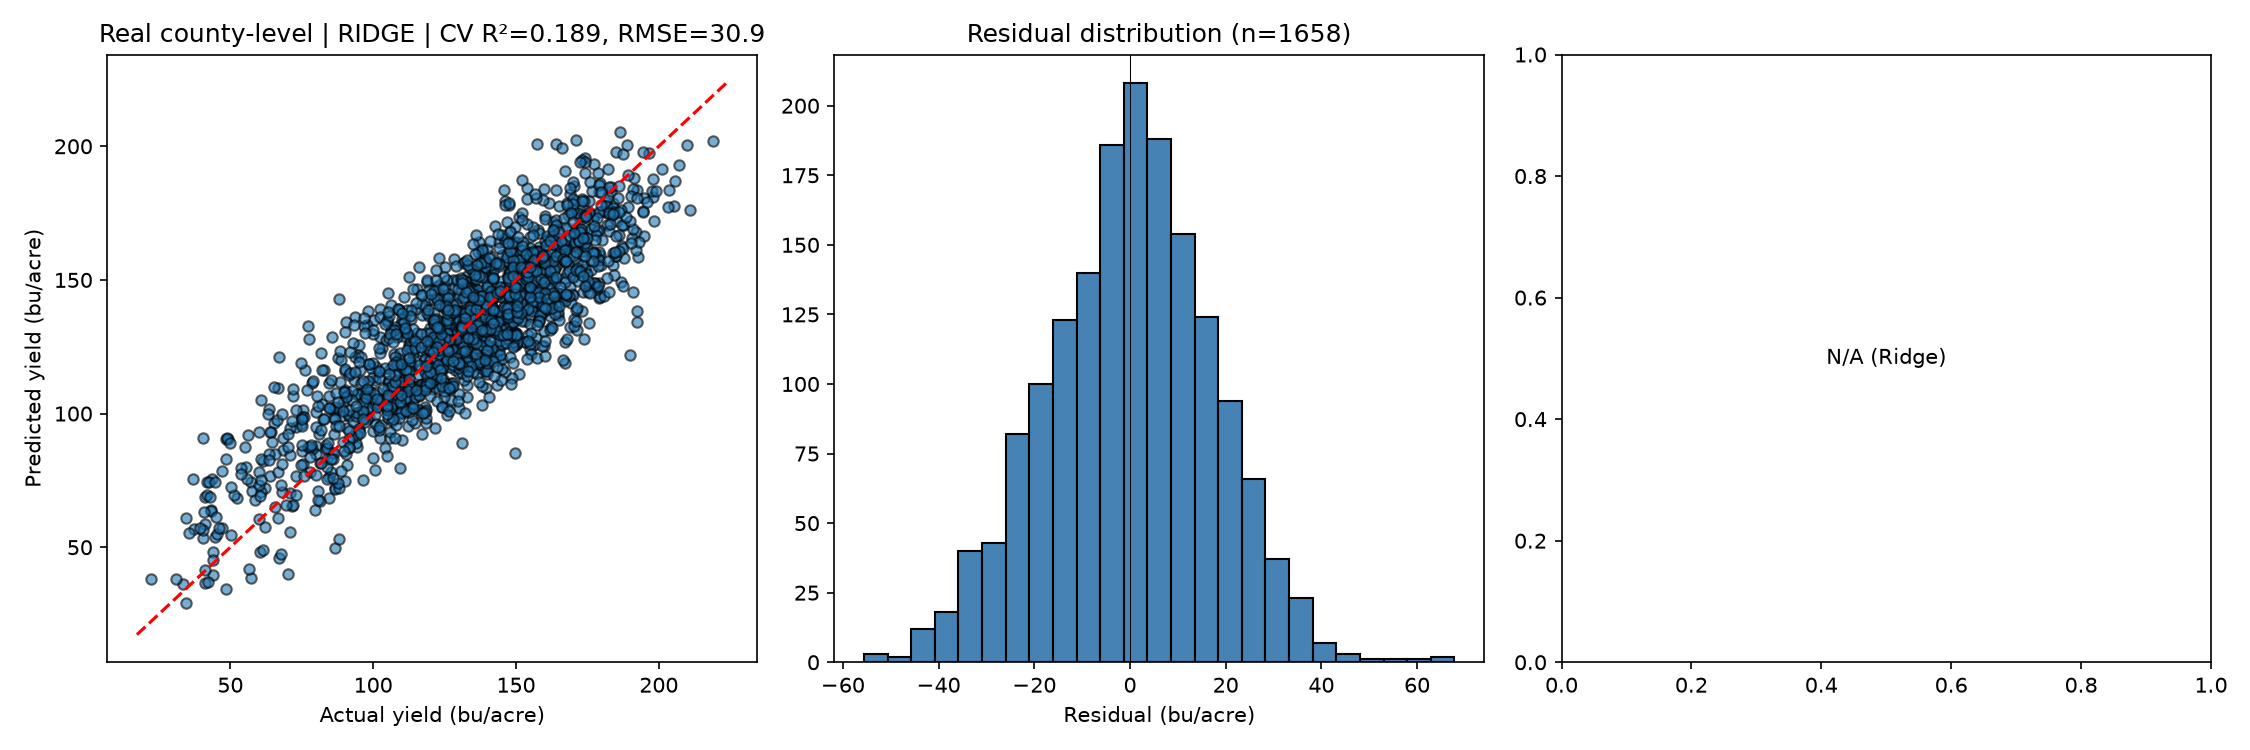
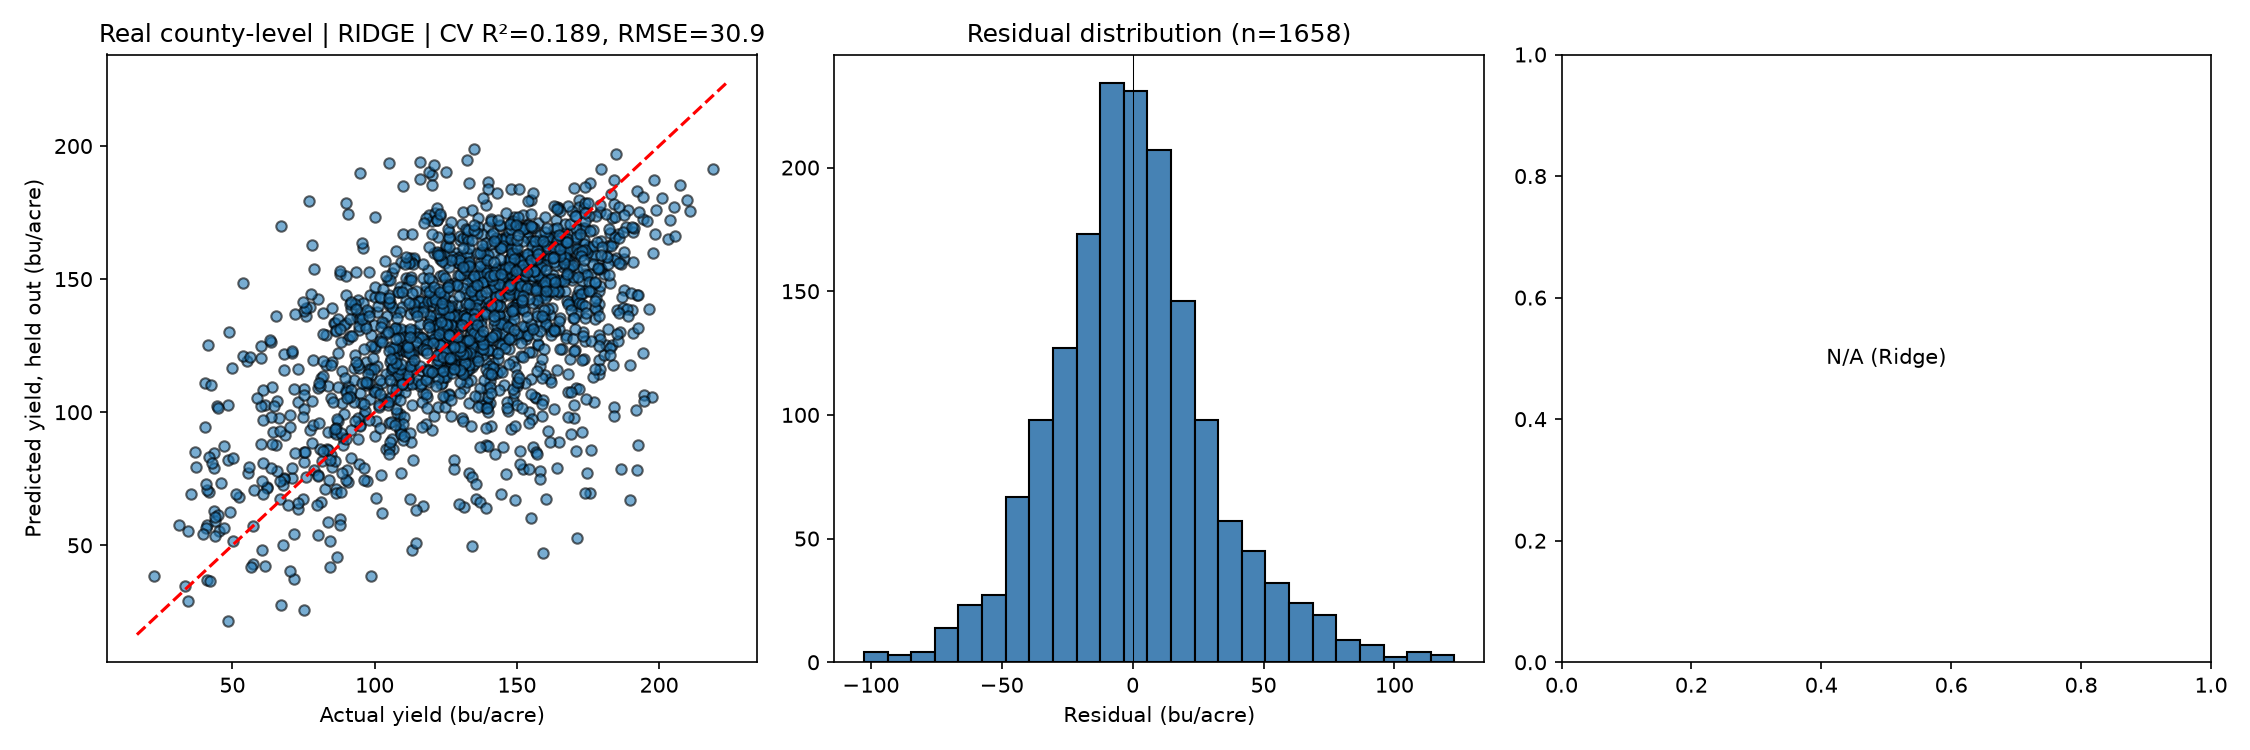
fix(diagnostics): draw residual charts from held-out predictions, not in-sample
train_model computed out-of-fold predictions via cross_val_predict, used them
for cv_r2/cv_rmse, and then discarded them. Every residual chart and every
actual-vs-predicted scatter was drawn from pipe.predict(X) after fitting on
all of X, while carrying a CV number in its title.

The measured difference, variant D across 97 counties:

  counties within +/-2 bu/ac of zero bias   19 -> 17
  counties within +/-5                      46 -> 37
  counties exceeding |10|                   10 -> 31
  statewide mean residual                  0.04 -> +1.17
  per-county mean<->std correlation       -0.09 -> -0.06

Nearly a third of counties are biased past 10 bu/ac once held out, against a
tenth in-sample. No R2 or RMSE moves: those were always out-of-fold. Feature
importances move in the last ULP only (sklearn 1.9.0 here; the committed
0.7090802396940983 / 18.4934520585725 reproduce exactly, which is what
licensed regenerating these artifacts at all).

Also renames residuals_within_2_buacre to counties_bias_within_2_buacre and
adds residual_basis. The old name read as "19% of predictions within 2 bu/ac"
and was none of those three things: a count of counties, of per-county mean
residual, in-sample.

README: replaces variant B's feature ranking with variant D's, labels the
0.678/0.189 comparison as variants B and A, re-derives the regional bias table
from held-out residuals, and notes that the three showcase counties for Daymet
[…]

diff --git a/scripts/train_real_daymet.py b/scripts/train_real_daymet.py
@@ -158,12 +158,12 @@ def render_diagnostics(result, y, df, tag: str):
     cmap = plt.cm.tab20
     for i, c in enumerate(sorted(counties)):
         mask = df["county"] == c
-        ax.scatter(y[mask], result["y_pred_train"][mask], alpha=0.55, s=22,
+        ax.scatter(y[mask], result["y_pred_oof"][mask], alpha=0.55, s=22,
                    color=cmap(i % 20), edgecolors="none")
     lo, hi = y.min() - 5, y.max() + 5
     ax.plot([lo, hi], [lo, hi], "k--", linewidth=1, alpha=0.5)
     ax.set_xlabel("Actual yield (bu/acre)")
-    ax.set_ylabel("Predicted yield (bu/acre)")
+    ax.set_ylabel("Predicted yield, held out (bu/acre)")
     ax.set_title(f"GBR (Daymet per county) — CV R²={result['cv_r2']:.3f} RMSE={result['cv_rmse']:.1f}")
     ax.grid(alpha=0.3)
     fig.tight_layout()
@@ -171,8 +171,8 @@ def render_diagnostics(result, y, df, tag: str):
     fig.savefig(out, dpi=150); plt.close(fig)
     log.info("Saved %s", out)
 
-    # residuals
-    residuals = (y - result["y_pred_train"]).to_frame("residual")
+    # residuals, from held-out predictions (the chart sits under a CV number)
+    residuals = (y - result["y_pred_oof"]).to_frame("residual")
     residuals["county"] = df["county"].values
     per_county = residuals.groupby("county")["residual"].agg(["mean", "std", "count"])
     per_county = per_county.sort_values("mean")
@@ -180,7 +180,7 @@ def render_diagnostics(result, y, df, tag: str):
     colors = ["firebrick" if m < 0 else "seagreen" for m in per_county["mean"]]
     ax.barh(per_county.index, per_county["mean"], color=colors)
     ax.axvline(0, color="k", linewidth=0.7)
-    ax.set_xlabel("Mean residual (bu/acre)  [actual − predicted]")
+    ax.set_xlabel("Mean held-out residual (bu/acre)  [actual − predicted]")
     ax.set_title(f"GBR residuals per county (Daymet) — {len(per_county)} counties")
     fig.tight_layout()
     out = FIGS / f"residuals_by_county_{tag}.png"
@@ -279,9 +279,17 @@ def main():
             "cv_r2": float(r_dm_yr["cv_r2"] - r_kc["cv_r2"]),
             "cv_rmse": float(r_dm_yr["cv_rmse"] - r_kc["cv_rmse"]),
         },
-        "residuals_within_2_buacre": int((per_county["mean"].abs() < 2).sum()),
-        "residuals_within_5_buacre": int((per_county["mean"].abs() < 5).sum()),
-        "residuals_above_10_buacre": int((per_county["mean"].abs() >= 10).sum()),
+        # Counts of *counties* by held-out mean residual, i.e. bias, not accuracy:
+        # a county predicted +20 and -20 has mean 0 and lands in the first bucket.
+        # Named explicitly because the old `residuals_within_2_buacre: 19` read as
+        # "19% of predictions within 2 bu/ac" and was none of those three things.
+        "residual_basis": "per-county mean of held-out (out-of-fold) residuals",
+        "counties_scored": int(len(per_county)),
+        "counties_bias_within_2_buacre": int((per_county["mean"].abs() < 2).sum()),
+        "counties_bias_within_5_buacre": int((per_county["mean"].abs() < 5).sum()),
+        "counties_bias_above_10_buacre": int((per_county["mean"].abs() >= 10).sum()),
+        "statewide_mean_residual_buacre": float(
+            np.average(per_county["mean"], weights=per_county["count"])),
     }
     (FIGS / "summary_daymet.json").write_text(json.dumps(summary, indent=2))
     log.info("Saved %s", FIGS / "summary_daymet.json")

diff --git a/scripts/check_readme_numbers.py b/scripts/check_readme_numbers.py
@@ -1,0 +1,66 @@
+#!/usr/bin/env python3
+"""Assert the numbers quoted in README.md still match the JSON artifacts.
+
+Every claim checked here drifted at least once: the README carried variant B's
+feature ranking as if it were the current model's, and residual counts from a
+run that no longer exists. Prose is the thing that goes stale, so it gets a
+check.
+
+    python scripts/check_readme_numbers.py
+
+Exits nonzero and names each mismatch. Add a line whenever the README starts
+quoting a new number out of summary*.json. Matching is whitespace-insensitive,
+so rewrapping a paragraph does not break it.
+"""
+from __future__ import annotations
+
+import json
+import re
+import sys
+from pathlib import Path
+
+REPO = Path(__file__).resolve().parents[1]
+FLAT = re.sub(r"\s+", " ", (REPO / "README.md").read_text())
+KC = json.loads((REPO / "figures/real/summary.json").read_text())
+DM = json.loads((REPO / "figures/real/summary_daymet.json").read_text())
+
+failures: list[str] = []
+
+
+def quoted(fragment: str, source: str) -> None:
+    """README must contain `fragment`, which was formatted from `source`."""
+    if re.sub(r"\s+", " ", fragment) not in FLAT:
+        failures.append(f"{source}: README does not contain {fragment!r}")
+
+
+d = DM["daymet_plus_year_fe"]
+quoted(f"gives R² {d['cv_r2']:.3f}", "daymet_plus_year_fe.cv_r2")
+quoted(f"gives **{DM['leave_one_year_out']['cv_r2']:.3f}**", "leave_one_year_out.cv_r2")
+quoted(f"together **{DM['doubly_blocked']['cv_r2']:.3f}**", "doubly_blocked.cv_r2")
+
+quoted(f"**{DM['counties_bias_within_2_buacre']} are within ±2 bu/acre of zero bias,"
+       f" {DM['counties_bias_within_5_buacre']} within ±5, and"
+       f" {DM['counties_bias_above_10_buacre']} exceed |10|**", "summary_daymet county bias counts")
+quoted(f"mean residual is +{DM['statewide_mean_residual_buacre']:.1f} bu/acre",
+       "summary_daymet.statewide_mean_residual_buacre")
+quoted(f"worse on all three: {KC['counties_bias_within_2_buacre']} /"
+       f" {KC['counties_bias_within_5_buacre']} /"
+       f" {KC['counties_bias_above_10_buacre']}", "summary.json county bias counts")
+
+for name, imp in list(d["top_features"].items())[:5]:
+    quoted(f"`{name}` ({imp:.2f})", f"daymet_plus_year_fe.top_features.{name}")
+
+# Structural: each file must still say which model it describes and where its
+# residual counts came from. Without these the numbers above are unattributable.
+if KC.get("superseded_by") != "summary_daymet.json":
+    failures.append("summary.json: lost its superseded_by marker")
+for blob, name in ((KC, "summary.json"), (DM, "summary_daymet.json")):
+    if "held-out" not in blob.get("residual_basis", ""):
+        failures.append(f"{name}: residual_basis missing or no longer says held-out")
+
+if failures:
+    print("README drifted from the artifacts:", file=sys.stderr)
+    for f in failures:
+        print("  -", f, file=sys.stderr)
+    sys.exit(1)
+print("README matches summary.json and summary_daymet.json")

diff --git a/scripts/generate_full_figures.py b/scripts/generate_full_figures.py
@@ -238,8 +238,8 @@ def fig_model_diagnostics(ndvi: pd.DataFrame, weather: pd.DataFrame, yields: pd.
     plt.close(fig)
     log.info("Saved %s", out)
 
-    # residuals by county
-    residuals = (y - result["y_pred_train"]).to_frame("residual")
+    # residuals by county, from held-out predictions (the chart sits under a CV number)
+    residuals = (y - result["y_pred_oof"]).to_frame("residual")
     residuals["county"] = [ix.rsplit("_", 1)[0] for ix in residuals.index]
     per_county = residuals.groupby("county")["residual"].agg(["mean", "std", "count"])
     per_county = per_county.sort_values("mean")
@@ -248,8 +248,8 @@ def fig_model_diagnostics(ndvi: pd.DataFrame, weather: pd.DataFrame, yields: pd.
     colors = ["firebrick" if m < 0 else "seagreen" for m in per_county["mean"]]
     ax.barh(per_county.index, per_county["mean"], color=colors)
     ax.axvline(0, color="k", linewidth=0.7)
-    ax.set_xlabel("Mean residual (bu/acre)  [actual - predicted]")
-    ax.set_title("Per-county bias — GBR on statewide corn yields")
+    ax.set_xlabel("Mean held-out residual (bu/acre)  [actual - predicted]")
+    ax.set_title("Per-county bias — GBR on statewide corn yields (county-blocked CV)")
     ax.tick_params(axis="y", labelsize=6)
     fig.tight_layout()
     out = FIGS / "residuals_by_county.png"
@@ -271,6 +271,14 @@ def fig_model_diagnostics(ndvi: pd.DataFrame, weather: pd.DataFrame, yields: pd.
         "gbr_cv_rmse": float(result["cv_rmse"]),
         "gbr_train_r2": float(result["train_r2"]),
         "top_features": fi_base.head(5).to_dict(),
+        # Counts of *counties* by held-out mean residual, i.e. bias, not accuracy:
+        # a county predicted +20 and -20 has mean 0 and lands in the first bucket.
+        "residual_basis": "per-county mean of held-out (out-of-fold) residuals",
+        "counties_scored": int(len(per_county)),
+        "counties_bias_within_2_buacre": int((per_county["mean"].abs() < 2).sum()),
+        "counties_bias_within_5_buacre": int((per_county["mean"].abs() < 5).sum()),
+        "counties_bias_above_10_buacre": int((per_county["mean"].abs() >= 10).sum()),
+        "statewide_mean_residual_buacre": float(residuals["residual"].mean()),
     }
     (FIGS / "summary.json").write_text(json.dumps(summary, indent=2))
     log.info("Summary: %s", summary)

diff --git a/scripts/train_real.py b/scripts/train_real.py
@@ -119,7 +119,7 @@ def build_multi_county_features(ndvi: pd.DataFrame, weather: pd.DataFrame,
 
 def plot_model_results(result: dict, title_suffix: str, path: Path):
     y_true = result["y_true_train"]
-    y_pred = result["y_pred_train"]
+    y_pred = result["y_pred_oof"]  # panel titles quote CV metrics; draw the CV predictions
     fig, axes = plt.subplots(1, 3, figsize=(15, 5))
 
     ax = axes[0]
@@ -127,7 +127,7 @@ def plot_model_results(result: dict, title_suffix: str, path: Path):
     lo, hi = min(y_true.min(), y_pred.min()) - 5, max(y_true.max(), y_pred.max()) + 5
     ax.plot([lo, hi], [lo, hi], "r--")
     ax.set_xlabel("Actual yield (bu/acre)")
-    ax.set_ylabel("Predicted yield (bu/acre)")
+    ax.set_ylabel("Predicted yield, held out (bu/acre)")
     ax.set_title(f"{title_suffix} | CV R²={result['cv_r2']:.3f}, RMSE={result['cv_rmse']:.1f}")
 
     ax = axes[1]

diff --git a/src/yield_model.py b/src/yield_model.py
@@ -214,7 +214,12 @@ def train_model(
         'train_rmse': train_rmse,
         'train_r2': train_r2,
         'feature_importance': feat_imp,
+        # In-sample. Use for train_r2 only; a residual chart built from this shows
+        # how well the model memorised, and reads as skill next to a CV title.
         'y_pred_train': pd.Series(y_pred, index=idx),
+        # Out-of-fold, from the same CV that produced cv_r2/cv_rmse above. This is
+        # what every diagnostic that sits under a CV number should be drawn from.
+        'y_pred_oof': pd.Series(y_oof, index=idx),
         'y_true_train': y,
     }
 

diff --git a/README.md b/README.md
@@ -6,20 +6,27 @@ End-to-end agricultural monitoring system: satellite NDVI (Sentinel-2 via Google
 
 **Data (2001–2023, 97 MO counties, 1,658 county-years):**
 
+- **Forecasting is the harder number, and it is the one that counts.** Blocking
+  by county alone (gap-fill a held-out county in a year the model has seen)
+  gives R² 0.709. Holding out the *season* gives **0.556**, and holding out
+  county and season together **0.483**. Quote the forecast numbers unless the
+  task really is gap-fill. Full table under [ML Results](#ml-results).
 - **NDVI → yield signal is real but heterogeneous.** Pearson r = 0.52 between
-  peak summer NDVI and corn yield statewide; GBR CV R² = 0.678 vs 0.785 for the
-  6 homogeneous NW-county subset. A single state-wide regression
-  under-predicts on the glacial-till corn belt and over-predicts on Ozark
-  pasture / Bootheel rice paddies.
+  peak summer NDVI and corn yield statewide. A single state-wide fit
+  under-predicts the Bootheel and the Missouri River bottom and over-predicts
+  Ozark pasture, by 15–35 bu/acre in the worst counties — see the per-county
+  bias section, which measures this on held-out predictions.
 - **July is the hinge month.** `ndvi_july` is the single most important
-  feature (0.28), followed by `drought_flag` (0.15), `prcp_may_aug` (0.13),
-  and `tmax_july_mean` (0.13). Pollination-window stress dominates annual
-  yield variance.
+  feature (0.28), followed by `tmax_july_mean` (0.17), `ndvi_mean_growing`
+  (0.11), `ndvi_june` (0.08), and `drought_flag` (0.07). Pollination-window
+  stress dominates annual yield variance. (Variant D; the KC-station variant B
+  ranked `prcp_may_aug` third, which per-county Daymet weather displaces.)
 - **Known drought years show up cleanly** in the statewide trend lines for
   2012 and 2022 across corn / soy / sorghum — sanity check that MODIS +
   GHCND + NASS are aligned.
-- **GBR beats Ridge by ~3×** on R² (0.678 vs 0.189). The 97 county one-hot
-  features are too coarse for a linear model to recover per-region intercepts.
+- **GBR beats Ridge by ~3.6×** on R² — 0.678 vs 0.189, both on the same
+  KC-station feature set (variants B and A). The 97 county one-hot features
+  are too coarse for a linear model to recover per-region intercepts.
 - **Top corn counties** in the 2015–2023 average cluster along the Missouri
   River bottom (Atchison, Holt, Nodaway, Andrew, Buchanan) — consistent with
   published USDA rankings.
@@ -124,9 +131,12 @@ the model loses its implicit year effect. Adding explicit year dummies
 weather deviations on top — best of both worlds, +3 points of R² over
 the KC baseline.
 
-Counties with the biggest residual improvement under Daymet are exactly
-the ones whose climate differs most from KC: Madison (bias −30 → −15),
-Wright (+13 → +7), Dent (−33 → −28).
+Counties with the biggest held-out bias improvement under Daymet, among those
+with ≥10 years of corn history: Jackson (+38.6 → +24.9), Atchison (−7.5 →
+−1.6), Audrain (−20.8 → −16.1), Butler (+12.2 → +8.3). Madison, Wright and
+Dent improve more in absolute terms but each has a **single** corn-yield year
+in the corpus, so their bias is one prediction and not a trend — seven
+counties are in that position.
 
 **Models.** *Ridge* is L2-penalized linear regression (`sklearn.linear_model.Ridge`);
 adding `α‖β‖²` to the loss stabilizes coefficients when features are correlated —
@@ -134,17 +144,23 @@ adding `α‖β‖²` to the loss stabilizes coefficients when features are corr
 dummies are near-collinear with the intercept. It's the baseline sanity check.
 *GBR* is the Gradient Boosting Regressor (`sklearn.ensemble.GradientBoostingRegressor`,
 100 trees × depth 3, lr 0.1, subsample 0.8) — an ensemble that fits each new tree
-to the residuals of the prior ensemble. It wins by ~3× here (R² 0.678 vs 0.189)
-because it captures the non-linear NDVI→yield saturation, the drought × NDVI
-interaction, and per-county intercepts — all of which a linear model either
-can't represent or has its coefficients shrunk away.
+to the residuals of the prior ensemble. It wins by ~3.6× on the same features
+(variant B 0.678 vs variant A 0.189) because it captures the non-linear
+NDVI→yield saturation, the drought × NDVI interaction, and per-county
+intercepts — all of which a linear model either can't represent or has its
+coefficients shrunk away.
 
-Top GBR features (statewide): `ndvi_july` (0.28), `drought_flag` (0.15),
-`prcp_may_aug` (0.13), `tmax_july_mean` (0.13), `ndvi_mean_growing` (0.11).
-Going from 6 homogeneous NW counties (R²=0.785) to all 97 yield-bearing
-counties (R²=0.678) reflects real agroclimatic heterogeneity: the Bootheel
-rice paddies, Ozark pasture, and Glacial-till corn belt don't share a single
-NDVI→yield slope.
+Top GBR features, variant D (`figures/real/summary_daymet.json`): `ndvi_july`
+(0.28), `tmax_july_mean` (0.17), `ndvi_mean_growing` (0.11), `ndvi_june`
+(0.08), `drought_flag` (0.07). Variant B, on KC-station weather, put
+`drought_flag` (0.15) and `prcp_may_aug` (0.13) second and third; per-county
+Daymet temperature displaces both, which is the same result the correlation
+maps show — July heat tracks yield in 84 of 85 counties.
+
+Agroclimatic heterogeneity is real, and the per-county bias section below
+measures it directly on held-out predictions: the Bootheel, the Missouri River
+bottom, and the Ozark plateau do not share a single NDVI→yield slope, and a
+statewide fit misses them by 15–35 bu/acre.
 
 ### Best model — GBR + Daymet + year FE (CV R²=0.709)
 
@@ -196,29 +212,48 @@ real weather-response signal the statewide GBR is exploiting.
 ![Residuals by county — Daymet + year FE](figures/real/residuals_by_county_daymet.png)
 
 **Reading the residuals chart.** Each horizontal bar is the mean of
-`actual − predicted` corn yield for one county across all years.
-**Green (positive)** → GBR *under-predicts* (actual is higher than modeled).
-**Red (negative)** → GBR *over-predicts* (actual is lower). Bar length is the
-bias magnitude in bu/acre. Across the 97 counties: 16 are within ±2 bu/acre,
-44 within ±5, and only 7 exceed |10|; the statewide mean residual is
-−1.3 bu/acre, so there is no global offset.
+`actual − predicted` corn yield for one county across all years, computed from
+**held-out (out-of-fold) predictions** — the same county-blocked CV that
+produces the R² above, so the bars show bias on counties the model did not
+train on. **Green (positive)** → GBR *under-predicts* (actual is higher than
+modeled). **Red (negative)** → GBR *over-predicts* (actual is lower).
+
+Across the 97 counties (variant D): **17 are within ±2 bu/acre of zero bias,
+37 within ±5, and 31 exceed |10|**; the statewide mean residual is
++1.2 bu/acre, so there is no large global offset — the error is regional, not
+a shift. The KC baseline (variant B) is worse on all three: 15 / 35 / 34.
+
+**These are counts of counties, and they measure bias, not accuracy.** A
+county predicted +20 one year and −20 the next has a mean residual of zero and
+lands in the first bucket. The accuracy numbers are the RMSEs in the tables
+above. Both sets of counts are written to `figures/real/summary*.json` under
+`counties_bias_*`, alongside the `residual_basis` field that says which
+predictions they came from.
+
+> Earlier revisions of this section reported 16 / 44 / 7 and a −1.3 statewide
+> mean. Those were computed from **in-sample** predictions — the diagnostics
+> were drawn from `pipe.predict(X)` after fitting on all of `X`, while sitting
+> under a CV headline. The out-of-fold numbers above are what the same code
+> reports now that it uses the CV predictions it was already computing.
 
 The geographic pattern is the real story:
 
-| Region                       | Bias direction             | Representative counties                                           |
+| Region                       | Bias direction             | Representative counties (held-out mean bias, bu/acre)             |
 |------------------------------|----------------------------|-------------------------------------------------------------------|
-| Missouri River bottom (loess)| green / under-predicted    | Buchanan +8.5, Platte +7.3, Lafayette +7.2, Chariton +7.6, Ray +7.6 |
-| Bootheel alluvial plain      | green / under-predicted    | Scott +7.7, New Madrid +7.6                                       |
-| Ozark plateau                | red / over-predicted       | Christian −11, Dallas −10, Texas −8.8, Wayne −8.3                 |
-| Single-year outliers (n=1)   | large red tails            | Dent −33, Madison −30, Pulaski −21                                |
+| Missouri River bottom (loess)| green / under-predicted    | Platte +16.6, Ray +14.5, Lafayette +11.7, Buchanan +9.9, Chariton +7.8 |
+| Bootheel alluvial plain      | green / under-predicted    | Scott +35.4, Mississippi +28.5, Stoddard +27.9, New Madrid +19.8   |
+| Ozark plateau                | red / over-predicted       | Christian −18.9, Wayne −16.2, Texas −16.0, Dallas −9.8            |
+| Single-year counties (n=1)   | large red tails            | Dent −46.8, Pulaski −36.9, Madison −34.3, Stone −27.8             |
 
 GBR is **helpful everywhere** — it still beats Ridge ~3× on every subset —
 but it has been shrunk toward the statewide mean for the tail regions. The
 Missouri River bottom genuinely out-yields what NDVI + weather alone predict
 (richer soils, irrigation); the Ozarks genuinely under-yield (corn is
-marginal acreage). The negative `mean ↔ std` correlation (−0.22) says
-biased counties also have higher variance, another sign that distinct
-agro-regions are being blended into a single fit. Two fixes worth exploring:
+marginal acreage). Held out, the per-county `mean ↔ std` correlation is
+−0.06 — essentially nothing, so bias magnitude and within-county variance are
+independent, and the regional offset is a systematic level error rather than
+noisier counties drifting. (An earlier −0.22 came from the in-sample
+residuals.) Two fixes worth exploring:
 (1) per-region GBR (river bottom / Ozark / Bootheel / N-Missouri), or
 (2) additional features — soil class, elevation, irrigated-acre fraction —
 so the model can separate *low NDVI because Ozark pasture* from *low NDVI
